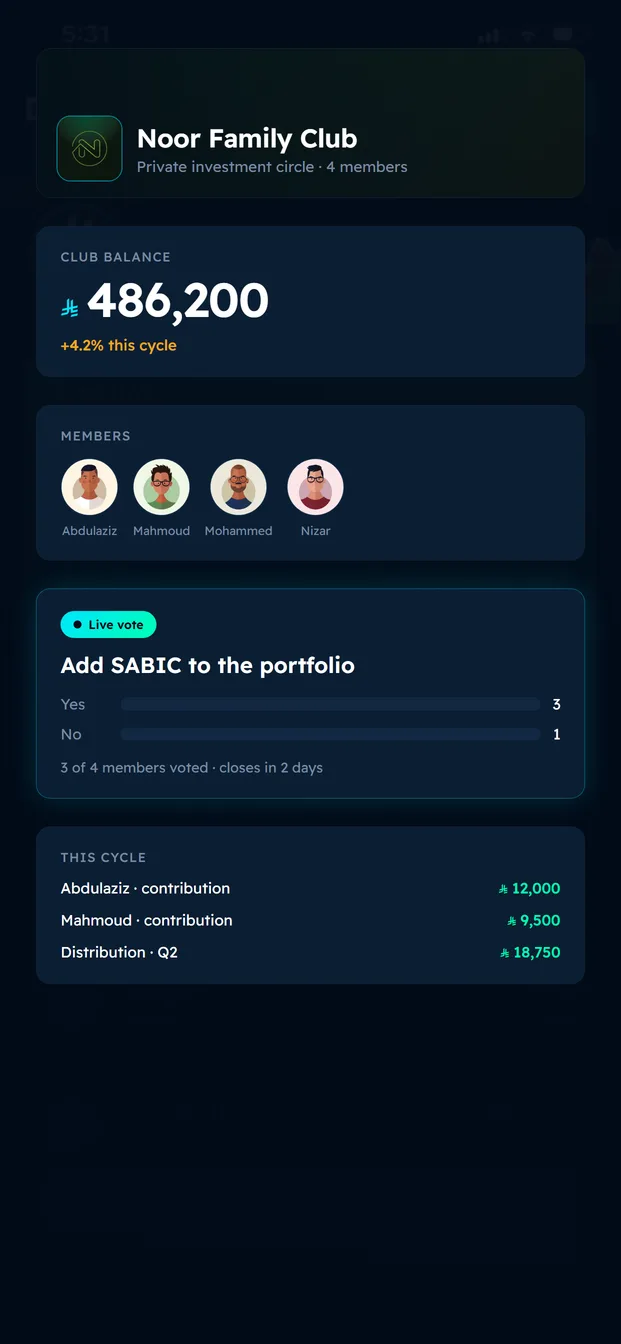
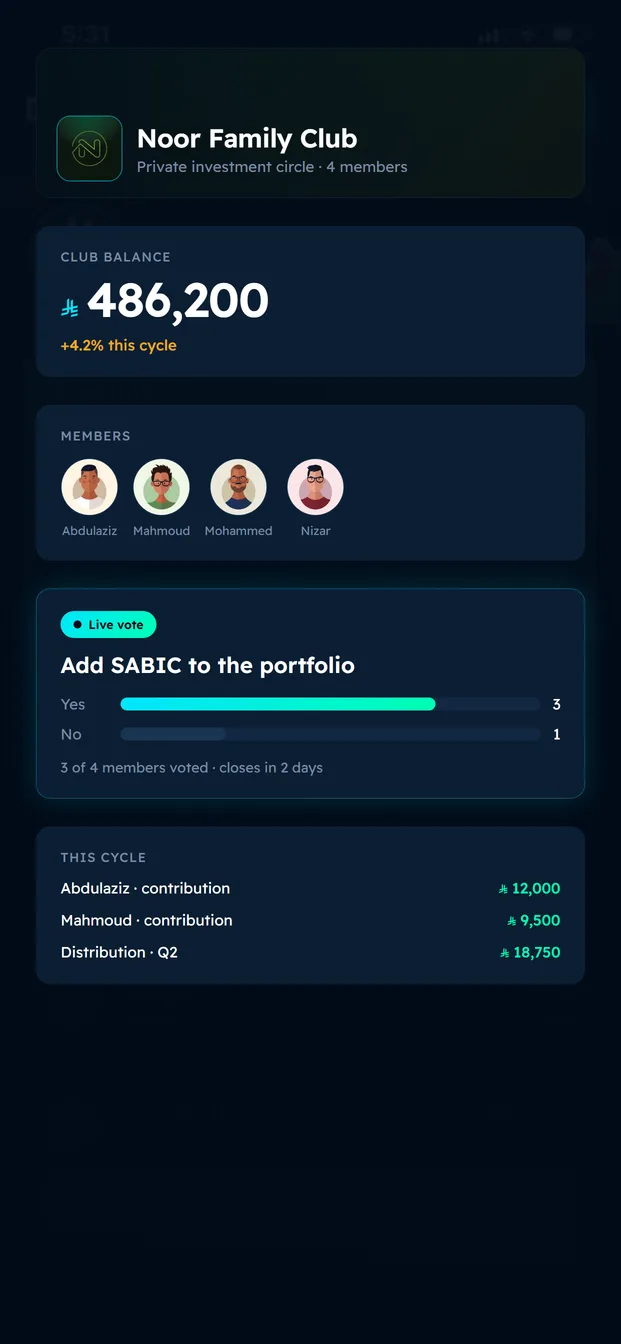
fix: render hero live-vote bar fills (display:block on .fill)

Changed region(s): [[0.1836, 0.5, 0.7037, 0.5312]]

diff --git a/tools/hero-composite.html b/tools/hero-composite.html
@@ -69,7 +69,7 @@
   .vote .bars { margin-top: 32px; display: flex; flex-direction: column; gap: 22px; }
   .vote .bar { display: flex; align-items: center; gap: 24px; font-size: 30px; }
   .vote .bar .track { flex: 1; height: 26px; border-radius: 9999px; background: #122842; overflow: hidden; }
-  .vote .bar .fill { height: 100%; border-radius: 9999px; }
+  .vote .bar .fill { display: block; height: 100%; border-radius: 9999px; }
   .vote .bar.yes .fill { width: 75%; background: linear-gradient(135deg,#00E5FF,#00FFB2); }
   .vote .bar.no .fill { width: 25%; background: #1A3552; }
   .vote .bar .who { width: 96px; color: #7A8AA0; }
